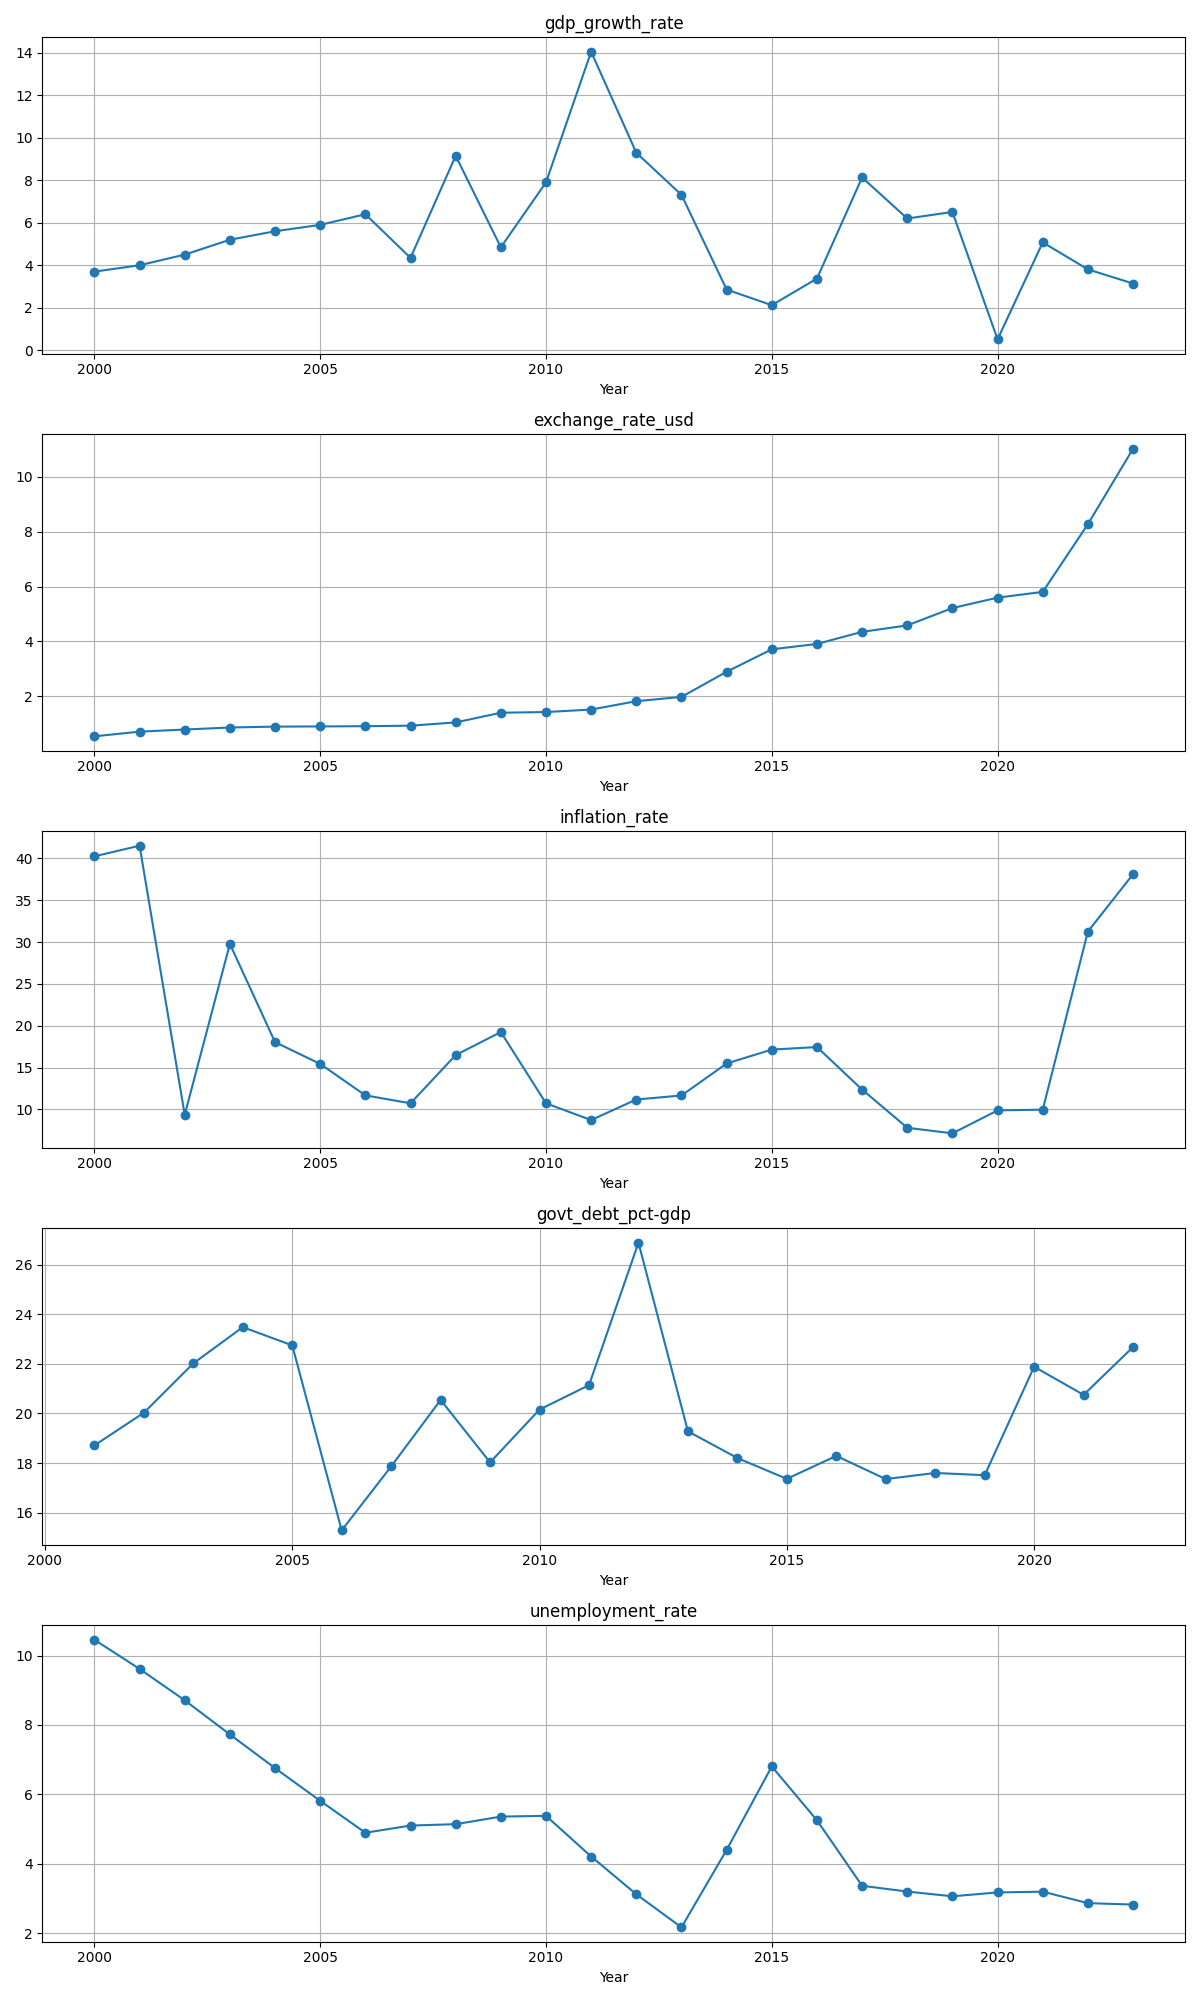
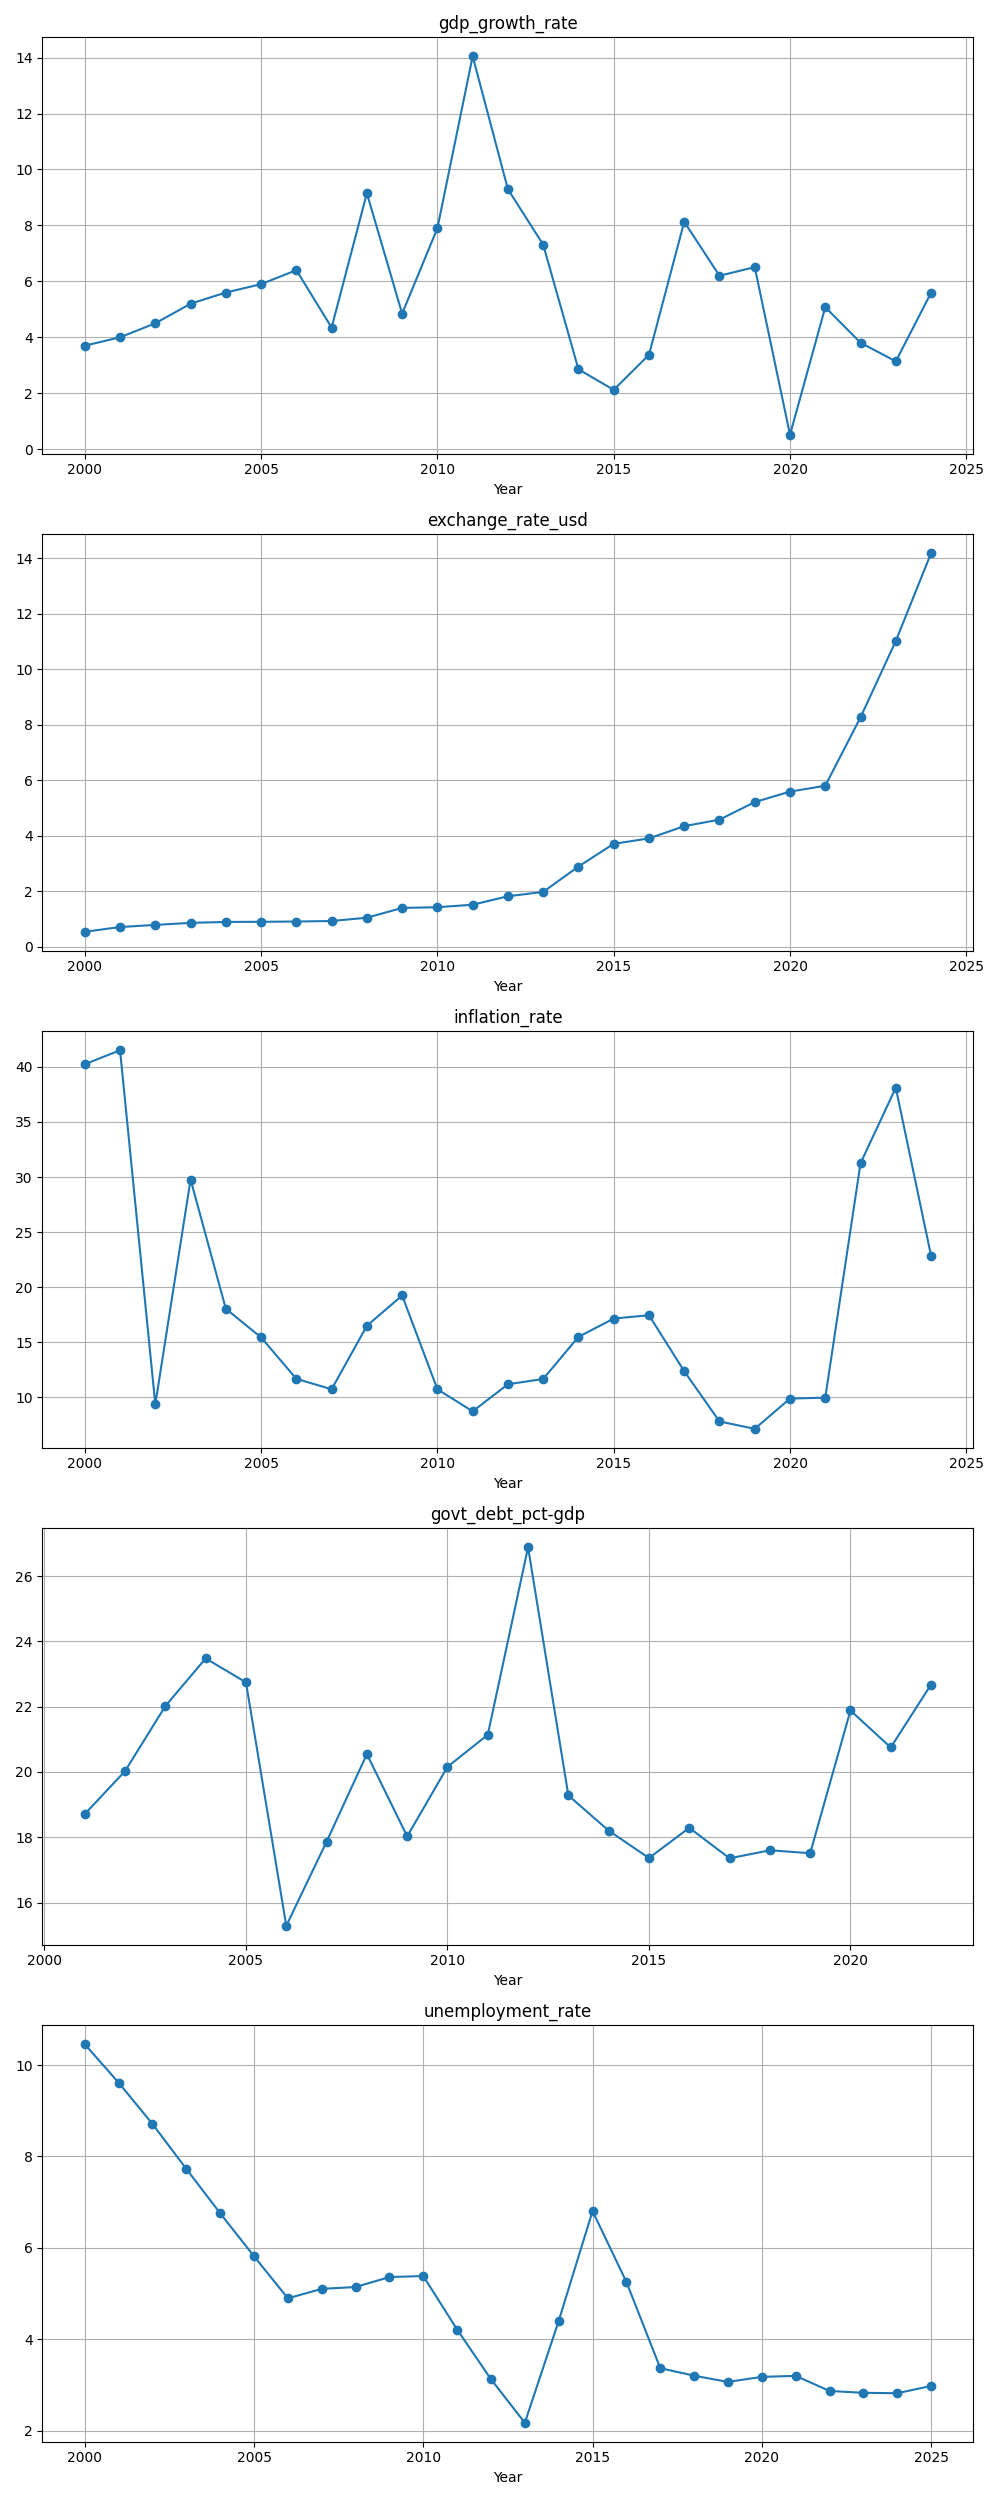
add main

diff --git a/src/visualise.py b/src/visualise.py
@@ -10,9 +10,9 @@ inflation_df = df[df['indicator_name'] == 'inflation_rate']
 def plot_inflation():
     inflation_df = df[df['indicator_name'] == 'inflation_rate']
 
-    plt.figure(figsize=(12,5))
+    plt.figure(figsize=(10,5))
     plt.plot(inflation_df['year'], inflation_df['value'], marker='o',color='red')
-    plt.title('Ghana Inflation Rate (2000-2023)')
+    plt.title('Ghana Inflation Rate (2000-2025)')
     plt.xlabel('Year')
     plt.ylabel('Inflation %')
     plt.grid(True)
@@ -23,7 +23,7 @@ def plot_inflation():
 def plot_all_indicators():
     indicators = df['indicator_name'].unique()
     
-    fig, axes = plt.subplots(len(indicators), 1, figsize=(12, 5* len(indicators)))
+    fig, axes = plt.subplots(len(indicators), 1, figsize=(10,5* len(indicators)))
     
     for i, indicator in enumerate(indicators):
         indicator_df = df[df['indicator_name'] == indicator]
